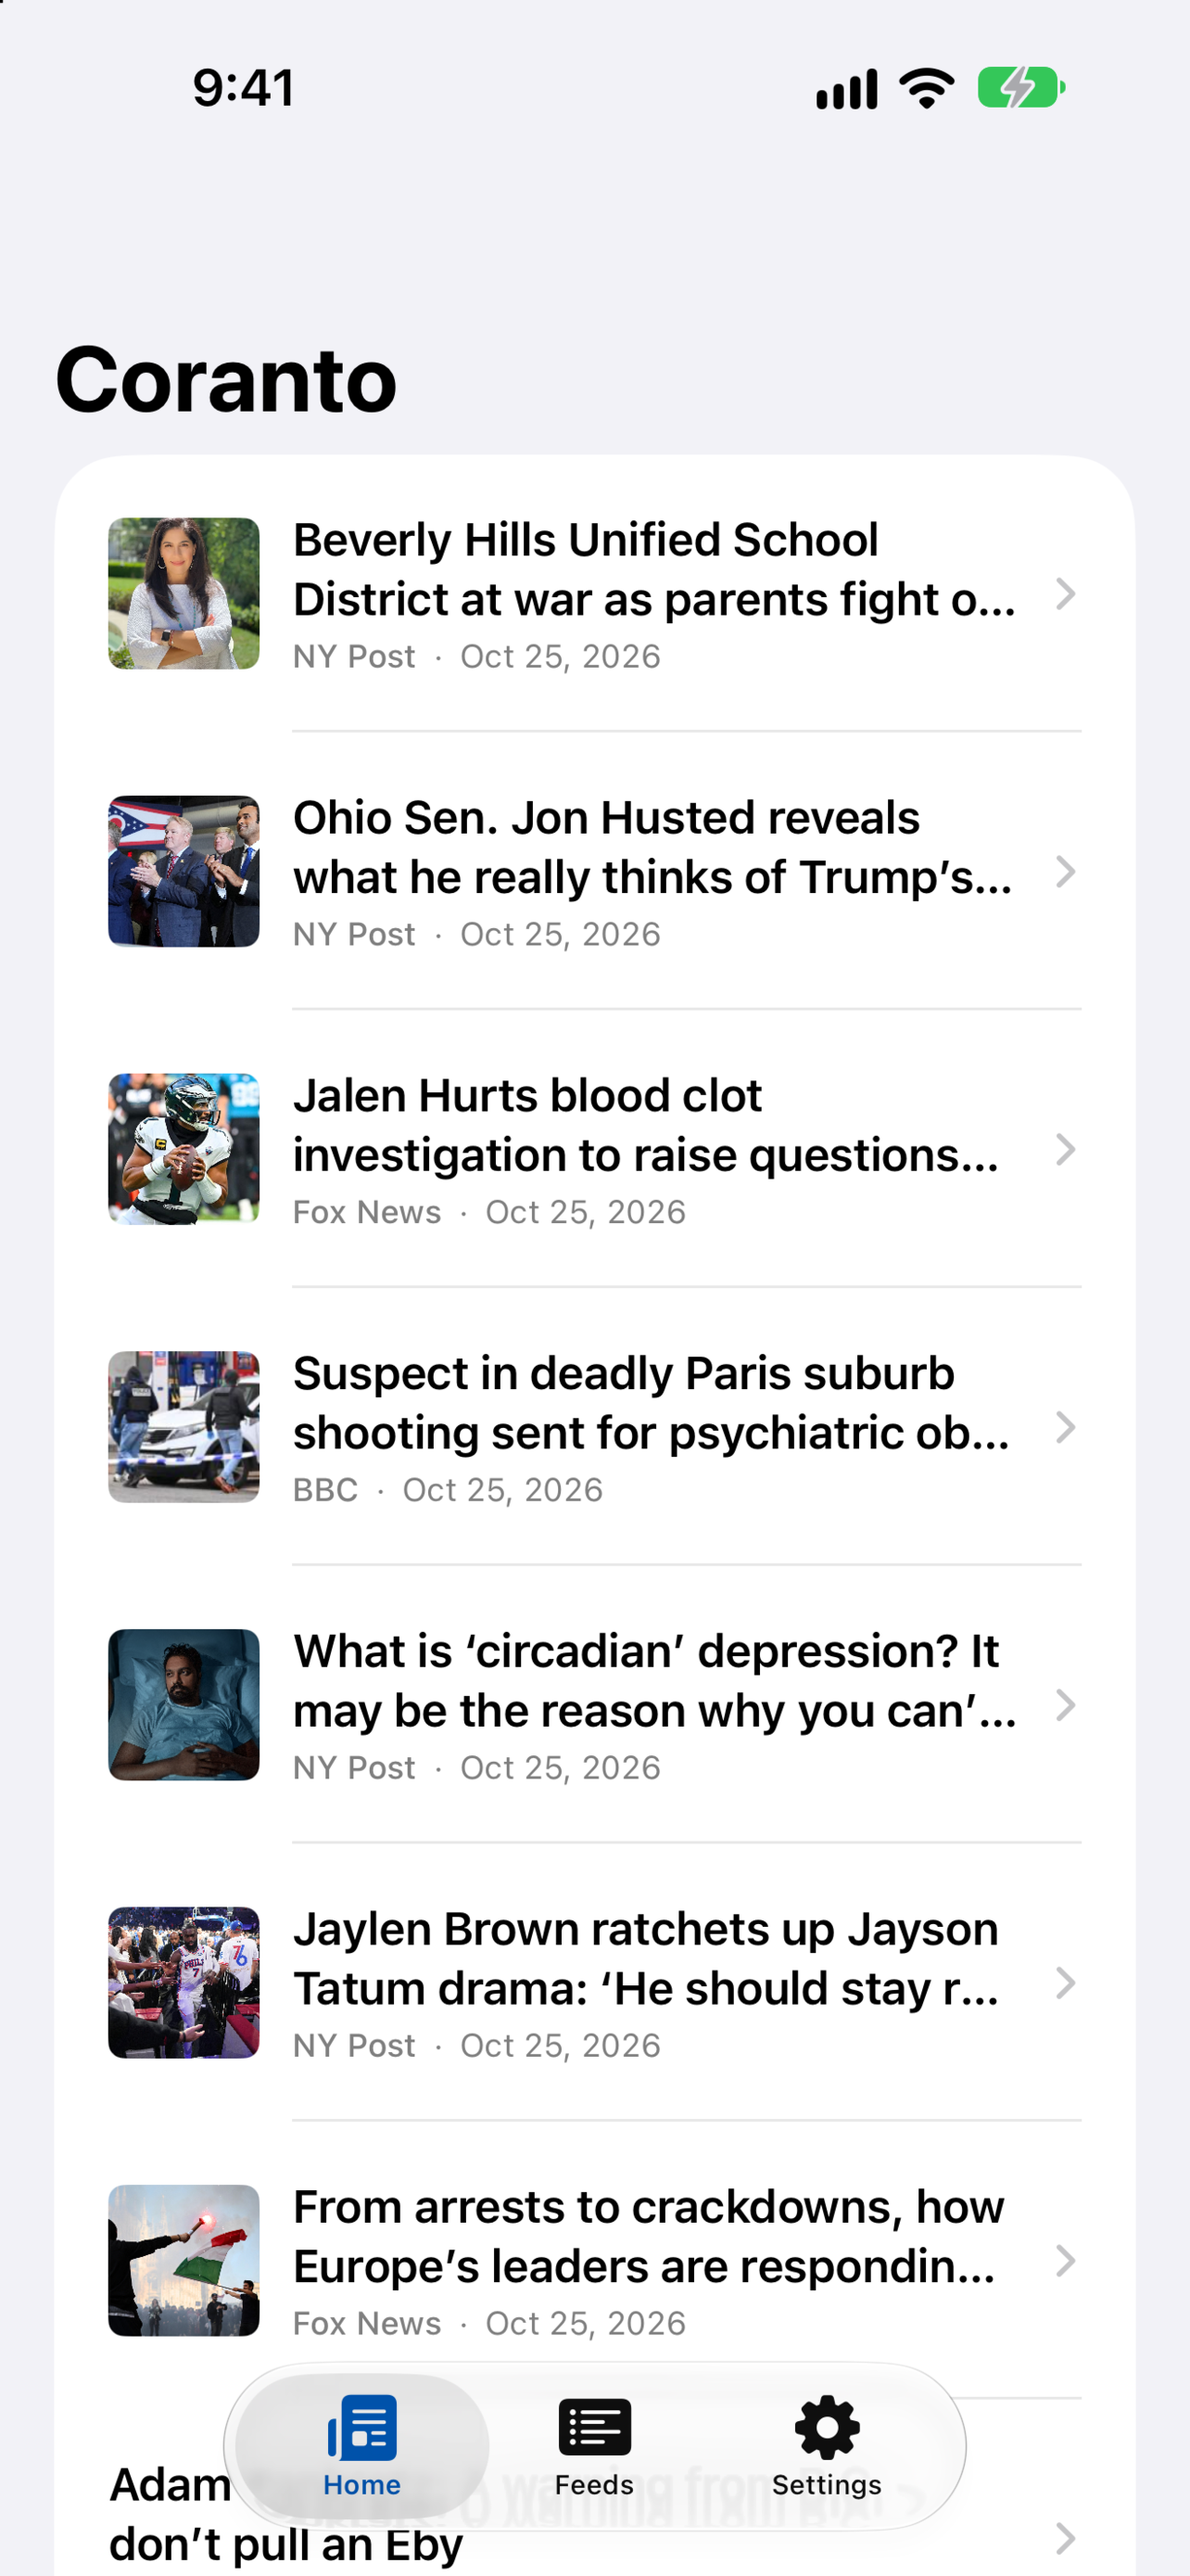
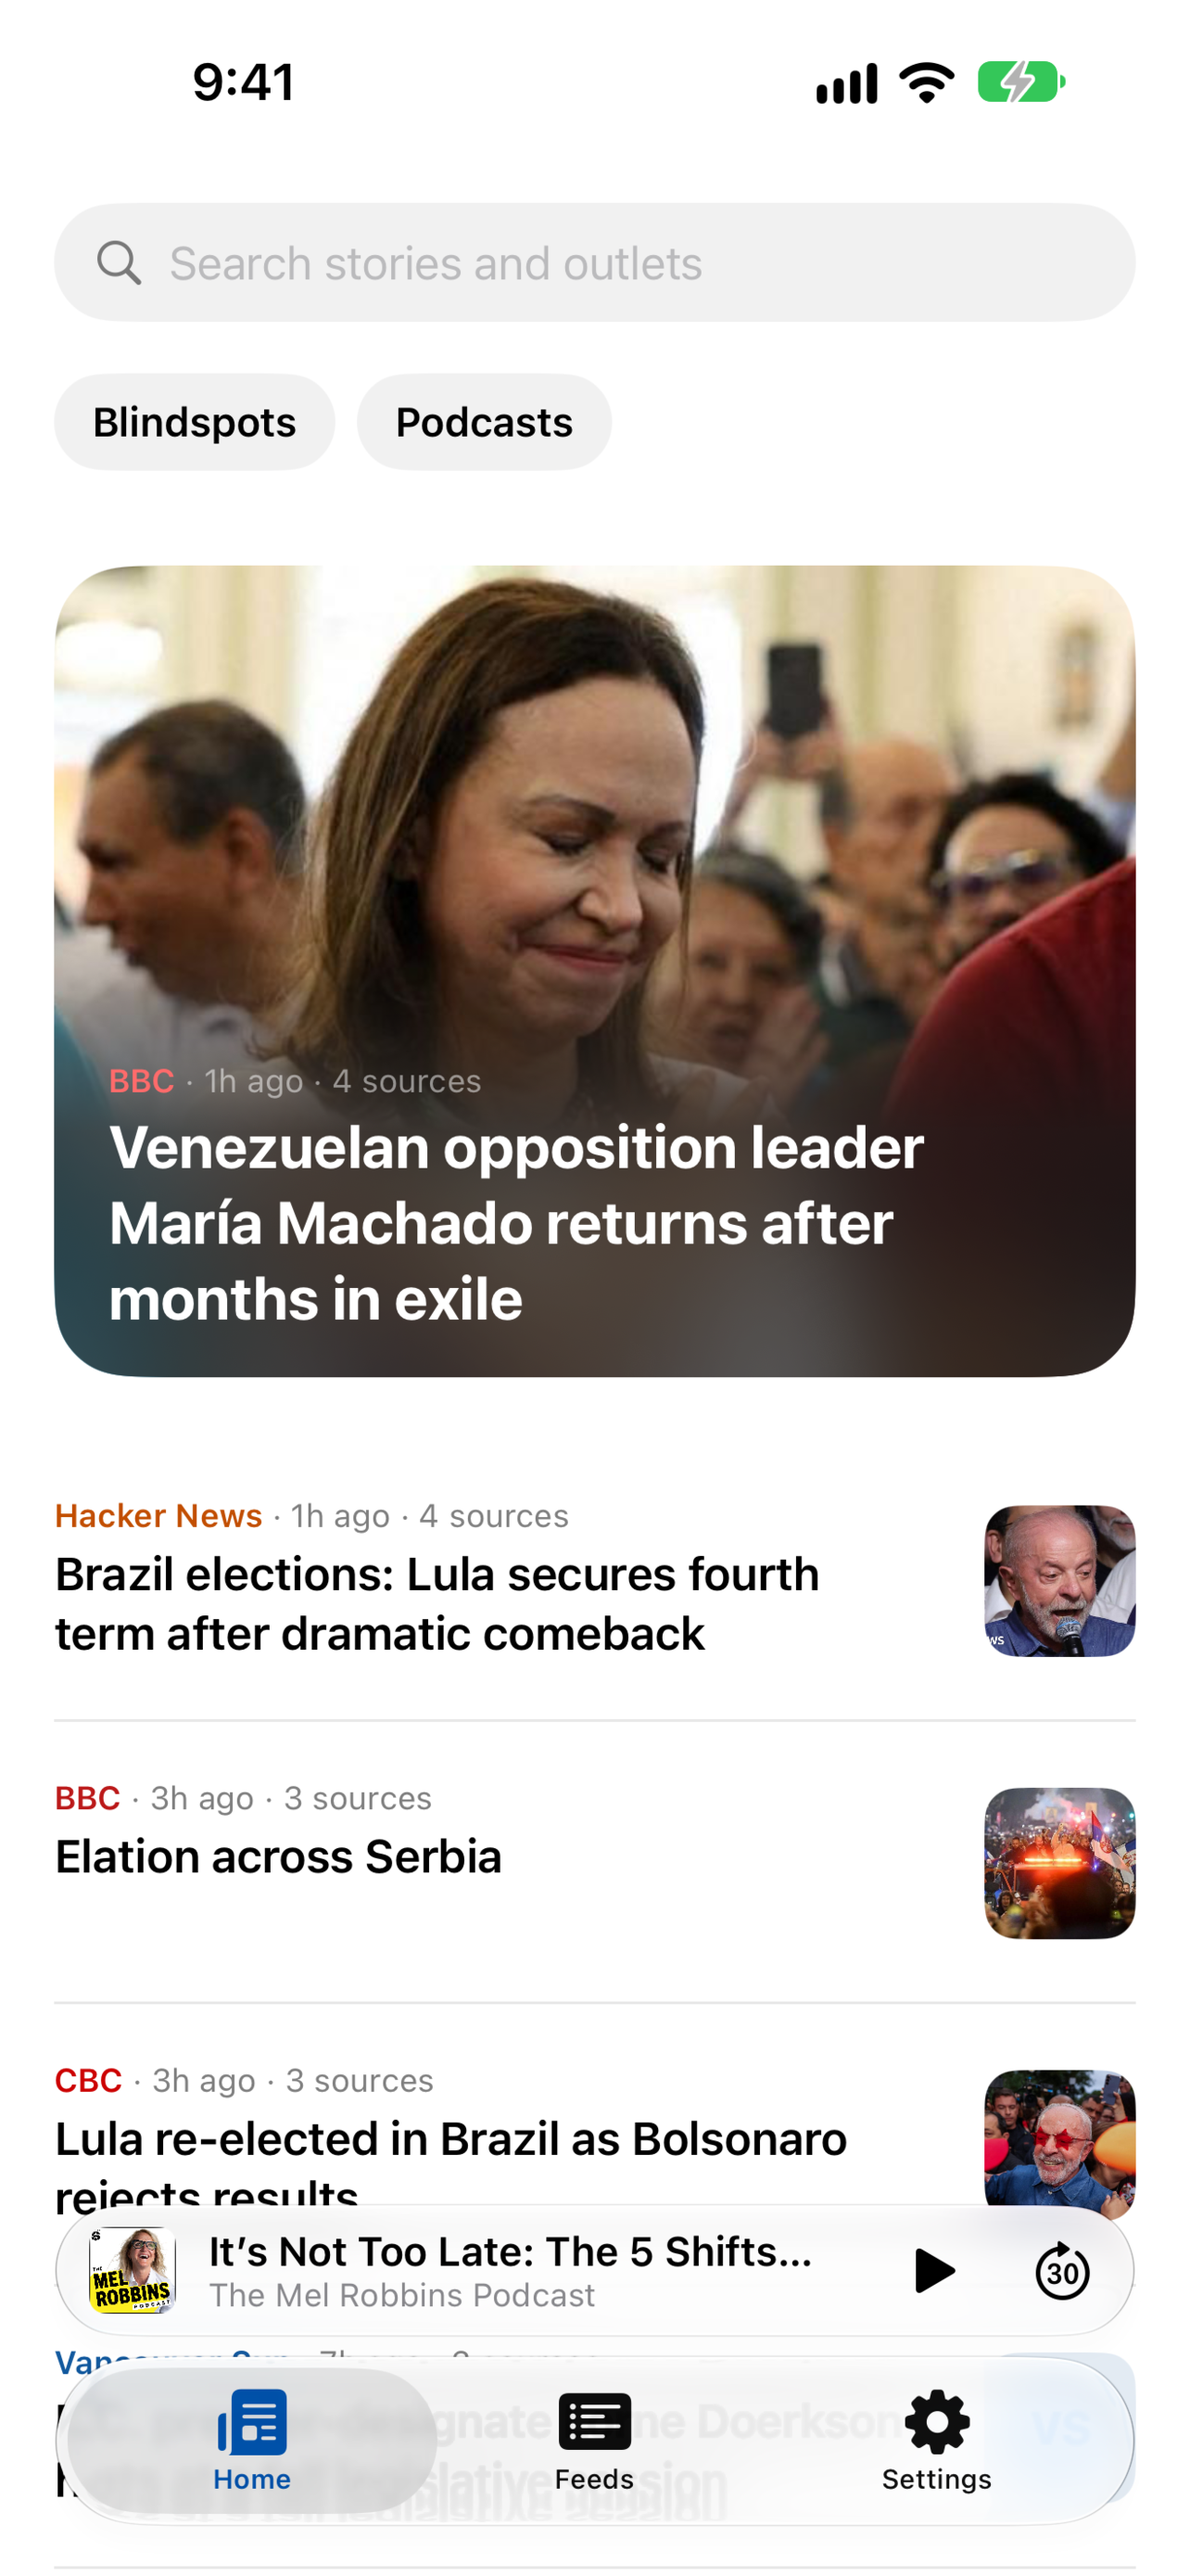
bugle 7.0.0: podcasts band done
Fourteen default shows, the Podcasts chip, a player with speed, skips, lock
screen and resume, Up Next, a mini player, Now Playing with AirPlay, downloads
and a sleep timer, on iPhone, iPad, Mac and the web. QA'd on all of them; the
mini player now hides on its own episode; new App Store screenshots that show
podcasts.

Claude-Session: https://claude.ai/code/session_01WK635nmVgnoRhWMPtJwkpw

diff --git a/ios/Sources/Shared/Views/EntryDetailView.swift b/ios/Sources/Shared/Views/EntryDetailView.swift
@@ -255,19 +255,19 @@ struct MiniPlayer: View {
 
 extension View {
     /// The mini player on the tab view: the tab bar accessory on iOS 26.1 and later, a floating capsule elsewhere.
-    @ViewBuilder func miniPlayer(_ player: Player, open: @escaping (JournalEntry) -> Void) -> some View {
+    @ViewBuilder func miniPlayer(_ player: Player, hidden: Bool, open: @escaping (JournalEntry) -> Void) -> some View {
         #if os(iOS)
         if #available(iOS 26.1, *) {
-            tabViewBottomAccessory(isEnabled: player.entry != nil) { MiniPlayer(player: player, open: open) }
-        } else { floatingMiniPlayer(player, open: open) }
+            tabViewBottomAccessory(isEnabled: player.entry != nil && !hidden) { MiniPlayer(player: player, open: open) }
+        } else { floatingMiniPlayer(player, hidden: hidden, open: open) }
         #else
-        floatingMiniPlayer(player, open: open)
+        floatingMiniPlayer(player, hidden: hidden, open: open)
         #endif
     }
 
-    private func floatingMiniPlayer(_ player: Player, open: @escaping (JournalEntry) -> Void) -> some View {
+    private func floatingMiniPlayer(_ player: Player, hidden: Bool, open: @escaping (JournalEntry) -> Void) -> some View {
         safeAreaInset(edge: .bottom) {
-            if player.entry != nil {
+            if player.entry != nil && !hidden {
                 MiniPlayer(player: player, open: open).frame(height: 56)
                     .background(.regularMaterial, in: Capsule()).padding(.horizontal, 16).padding(.bottom, 8)
             }

diff --git a/ios/Sources/Shared/Views/EntryListView.swift b/ios/Sources/Shared/Views/EntryListView.swift
@@ -62,7 +62,8 @@ struct EntryListView: View {
         .environment(\.horizontalSizeClass, .compact)
         #endif
         .tint(accent)
-        .miniPlayer(player) { _ in nowPlaying = true }
+        // hidden on the playing episode's own story, where its full player already is
+        .miniPlayer(player, hidden: path.last?.id == player.entry?.id) { _ in nowPlaying = true }
         .sheet(isPresented: $nowPlaying) { NowPlayingView(player: player) { tab = 0; path = [$0] } }
         // Keyboard (Mac, iPad): ⌘R refreshes, ⌘1 to ⌘3 pick a tab. Invisible buttons carry the shortcuts.
         .background {

diff --git a/web/sw.js b/web/sw.js
@@ -1,6 +1,6 @@
 // ponytail: network-first for pages, cache-first for the hashed assets they name.
 // Bump CACHE to evict everything a previous version stored.
-const CACHE = "bugle-v76";
+const CACHE = "bugle-v77";
 const FILES = ["/", "/index.html","/privacy.html","/read.html","/support.html", "/manifest.webmanifest"];
 
 // Pages redirects /read.html to /read; a cached redirect cannot answer a navigation (ERR_FAILED offline), so keep

diff --git a/web/read.html b/web/read.html
@@ -105,7 +105,7 @@
   </ul></div>
   <p class="label"></p>
   <div class="group"><ul class="rows">
-    <li><div class="row"><span class="txt">Version</span><small class="count">6.4.0</small></div></li>
+    <li><div class="row"><span class="txt">Version</span><small class="count">7.0.0</small></div></li>
   </ul></div>
   <p class="label"></p>
   <div class="group links"><ul class="rows">

diff --git a/docs/LOOP-HANDOFF.md b/docs/LOOP-HANDOFF.md
@@ -12,7 +12,7 @@ Restart prompt:
 
 ## Where things stand
 
-- Git is at 6.4.0: Now Playing (`NowPlayingView`, web `dialog.np`). QA hooks never play sound: `-cueEpisode`, `-nowPlaying` load paused (simulator audio comes out of Joshua's Mac). 6.3.0: sleep timer (`Player.sleep`, web `nextSleep`). 6.2.0: downloads (`Downloads.swift`, Application Support/episodes, removed once played; the web streams only), search covers episodes, web default feeds in `seeds.js`. 6.1.1: Home fills in as feeds arrive, 15 s feed timeout (a first launch on Joshua's phone sat on a spinner). 6.1.0: one app-wide player (`Player.shared`; web `player.js` keeps one audio element), a mini player (iOS 26.1 `tabViewBottomAccessory`, a floating capsule on Mac and older iOS, `#mini` on the web), Up Next (UserDefaults `queue`, localStorage `bugle.queue`), last episode restored paused (`nowPlaying`, `bugle.playing`). 6.0.1 (QA fixes: Feeds says "Podcast" under the default shows, cross-posted WSJ episodes list once, web Listen hides on episodes). 6.0.0: podcasts (Joshua said yes 2026-10-25 and sent his shows). Fourteen default shows in `FeedStore.podcasts` and `PODCASTS` (web, in `player.js`), added once to existing installs (`podcastsAdded`, `bugle.podcasts`). Episodes stay out of `stories`, live in `episodes`, show under the Podcasts chip; a show keeps its newest 30. `Player.swift` and `web/player.js` play them with speed, skips, lock screen and resume. The proxy now cuts oversized feeds at a whole item. 5.4.3: feeds that fail say so in Feeds. 5.4.2 (web Settings shows the version; bump the Version row in `web/read.html` with each release). 5.4.1: the web story toolbar title appears on scroll. 5.4.0: eleven languages (ar, de, es, fr, it, ja, ko, nl, pt-BR, zh-Hans, zh-Hant), Arabic right to left on both. 5.3.0: the web reader speaks the six languages too (`web/i18n.js`, generated by `scripts/gen_i18n.py`; rerun it after editing the catalog). 5.2.1: lean labels and empty states translated. 5.2.0: six languages in a String Catalog (84 strings; `xcodebuild -exportLocalizations` does not extract this project's strings, so new UI strings go into the catalog by hand, and a commit touching it needs SKIP_TOKEN_CHECK=1). 5.1.0: Dynamic Type at the largest sizes. 5.0.1: VoiceOver pass on Home rows. 5.0.0 (QA'd: tests, builds, iPhone and iPad light and dark, web at 390 and desktop, the landing; the Mac capture was skipped because an unsigned capture build would prompt for the account keychain item). 4.4.0: the share extension (`Sources/Share`, bundle id `com.nulljosh.journal.share`, registered with Apple along with `.widget`), handing items over through a shared keychain group (`Inbox`). Band 4.x is done. 4.3.0: Spotlight and Handoff (`Spotlight.swift`). 4.2.0: three columns on iPad and Mac (`HomeSplit`; the outlet list sets the same search Home uses, and the story column has its own path). 4.1.0: keyboard shortcuts (web `keys.js`; apps use invisible buttons with `.keyboardShortcut`). 4.0.1: grouping matches each headline against the story's lead only and ignores the day's common words (`Coverage.common`). 4.0.0 (tag `bugle-v4.0.0`): Band 3.x, RSS power, is done: site-address discovery, tech and Mac feeds, OPML, reading time, unread counts and Mark All Read, full article text for summary-only feeds, the Blindspots chip, and the story timeline (a week of headlines in `Archive`, shown under Earlier).
+- Git is at 7.0.0 (tag `bugle-v7.0.0`): the podcasts band done and QA'd, new store screenshots in `ios/.asc/screenshots` (01 to 05 iPhone 1284x2778 for APP_IPHONE_65, 06 and 07 iPad 2064x2752; the Mac set is still the old one), the mini player hides on its own episode. 6.4.0: Now Playing (`NowPlayingView`, web `dialog.np`). QA hooks never play sound: `-cueEpisode`, `-nowPlaying` load paused (simulator audio comes out of Joshua's Mac). 6.3.0: sleep timer (`Player.sleep`, web `nextSleep`). 6.2.0: downloads (`Downloads.swift`, Application Support/episodes, removed once played; the web streams only), search covers episodes, web default feeds in `seeds.js`. 6.1.1: Home fills in as feeds arrive, 15 s feed timeout (a first launch on Joshua's phone sat on a spinner). 6.1.0: one app-wide player (`Player.shared`; web `player.js` keeps one audio element), a mini player (iOS 26.1 `tabViewBottomAccessory`, a floating capsule on Mac and older iOS, `#mini` on the web), Up Next (UserDefaults `queue`, localStorage `bugle.queue`), last episode restored paused (`nowPlaying`, `bugle.playing`). 6.0.1 (QA fixes: Feeds says "Podcast" under the default shows, cross-posted WSJ episodes list once, web Listen hides on episodes). 6.0.0: podcasts (Joshua said yes 2026-10-25 and sent his shows). Fourteen default shows in `FeedStore.podcasts` and `PODCASTS` (web, in `player.js`), added once to existing installs (`podcastsAdded`, `bugle.podcasts`). Episodes stay out of `stories`, live in `episodes`, show under the Podcasts chip; a show keeps its newest 30. `Player.swift` and `web/player.js` play them with speed, skips, lock screen and resume. The proxy now cuts oversized feeds at a whole item. 5.4.3: feeds that fail say so in Feeds. 5.4.2 (web Settings shows the version; bump the Version row in `web/read.html` with each release). 5.4.1: the web story toolbar title appears on scroll. 5.4.0: eleven languages (ar, de, es, fr, it, ja, ko, nl, pt-BR, zh-Hans, zh-Hant), Arabic right to left on both. 5.3.0: the web reader speaks the six languages too (`web/i18n.js`, generated by `scripts/gen_i18n.py`; rerun it after editing the catalog). 5.2.1: lean labels and empty states translated. 5.2.0: six languages in a String Catalog (84 strings; `xcodebuild -exportLocalizations` does not extract this project's strings, so new UI strings go into the catalog by hand, and a commit touching it needs SKIP_TOKEN_CHECK=1). 5.1.0: Dynamic Type at the largest sizes. 5.0.1: VoiceOver pass on Home rows. 5.0.0 (QA'd: tests, builds, iPhone and iPad light and dark, web at 390 and desktop, the landing; the Mac capture was skipped because an unsigned capture build would prompt for the account keychain item). 4.4.0: the share extension (`Sources/Share`, bundle id `com.nulljosh.journal.share`, registered with Apple along with `.widget`), handing items over through a shared keychain group (`Inbox`). Band 4.x is done. 4.3.0: Spotlight and Handoff (`Spotlight.swift`). 4.2.0: three columns on iPad and Mac (`HomeSplit`; the outlet list sets the same search Home uses, and the story column has its own path). 4.1.0: keyboard shortcuts (web `keys.js`; apps use invisible buttons with `.keyboardShortcut`). 4.0.1: grouping matches each headline against the story's lead only and ignores the day's common words (`Coverage.common`). 4.0.0 (tag `bugle-v4.0.0`): Band 3.x, RSS power, is done: site-address discovery, tech and Mac feeds, OPML, reading time, unread counts and Mark All Read, full article text for summary-only feeds, the Blindspots chip, and the story timeline (a week of headlines in `Archive`, shown under Earlier).
 - 3.0.0 closed every gap against Apple News and Ground News from the original matrix (widget 2.4.0, Siri 2.5.0, Listen 3.0.0 and everything before).
 - The widget reads the seed feeds, not the user's list; an App Group would let it read `feeds.json`.
 - The web reader is live at 4.0.0. `web/reader.js` sits near the 5000 token hook; new web features go in their own file (`feedio.js`, `fulltext.js`, `timeline.js`).
@@ -20,9 +20,8 @@ Restart prompt:
 
 ## Next, in order
 
-1. iOS 2.0.0 is live (released 2026-10-25 evening) and iOS 6.1.0 (build 202610252056, podcasts and everything since 2.1) is waiting for review. Mac 2.0.0 is still in review; once it clears, archive and submit Mac 6.1.0 the same way with the same whatsNew. Never cancel a review.
-2. Road to 7.0.0 (Joshua 2026-10-25: loop to the next major, semver): 7.0.0 = the full QA list, fresh store screenshots showing podcasts, and the store submit. Apple Podcasts is the reference; Joshua's screenshots show Queue, 2x, 15 and 30, sleep timer.
-3. Then ungated band 50 to 99: more languages (Hindi, Russian, Turkish, Polish, Swedish, Indonesian, Vietnamese, Hebrew) and one Liquid Glass pass per tick.
+1. Store: iOS 6.1.0 is waiting for review and Mac 2.0.0 is in review. When iOS 6.1.0 clears, create iOS 7.0.0, upload the new screenshots (replace the APP_IPHONE_65 and APP_IPAD_PRO_3GEN_129 sets on its en-US localization), archive, upload and submit. When Mac 2.0.0 clears, archive and submit Mac 7.0.0. Never cancel a review.
+2. Road to 8.0.0 (semver: minor per feature, major per band). Ungated band 50 to 99 first: more languages (Hindi, Russian, Turkish, Polish, Swedish, Indonesian, Vietnamese, Hebrew), then one Liquid Glass pass per screen. Writing and subscribers (10 to 29) and Android (30 to 49) stay gated on Joshua.
 
 ## Rules that bite
 

diff --git a/roadmap.md b/roadmap.md
@@ -72,7 +72,7 @@ Rewritten 2026-10-25 at 1.19.5 (Joshua: "identify gaps, build roadmap, loop unti
 - **2.x Around the system** (rows 21, 22, 23, 25, 26: background refresh, notifications, widgets, Shortcuts, listen). **3.0** = 0 gaps against Apple News and Ground News: side-by-side QA.
 - **3.x RSS power** (rows 33 to 37, 42, 43: autodiscovery, OPML, full text, unread counts, Blindspot filter, reading time, timelines). **4.0** = 0 gaps against NetNewsWire and Reeder too.
 - **4.x iPad and Mac** (rows 38 to 41: shortcuts, three columns, share extension, Spotlight and Handoff). **5.0** QA.
-- **6 to 9 Podcasts** (Joshua 2026-08-24; yes on 2026-10-25, with his own shows as the defaults). Apple Podcasts is the reference.
+- **6 to 9 Podcasts** (Joshua 2026-08-24; yes on 2026-10-25, with his own shows as the defaults). Apple Podcasts is the reference. **7.0.0** closes it: 0 gaps against Apple Podcasts' core (play, queue, mini player, Now Playing, downloads, sleep timer).
   - [x] 6.0.0: enclosure audio, fourteen default shows, the Podcasts chip, a player with speed, skips, background audio, lock-screen controls and resume, on the apps and the web.
   - [x] 6.1.0: Up Next, and a mini player that keeps playing after you leave the story.
   - [x] 6.2.0: downloads, so an episode plays offline (apps; the web streams).

diff --git a/CHANGELOG.md b/CHANGELOG.md
@@ -2,6 +2,12 @@
 
 Git tags are `bugle-vX.Y.Z`. Earlier history (as Journal, Inkpress and Coranto) is in git log.
 
+## 7.0.0
+Podcasts, done as a whole: fourteen default shows, the Podcasts chip, a player with speed, skips, the lock screen and resume, Up Next, a mini player, Now Playing with AirPlay, downloads and a sleep timer, on the iPhone, iPad, Mac and the web.
+- QA pass on iPhone and iPad in light and dark, the web at phone and desktop width, and the landing. Builds for iPhone, iPad, Mac and Watch.
+- The mini player hides on the playing episode's own story, where its full player already is.
+- New App Store screenshots that show podcasts (`ios/.asc/screenshots`).
+
 ## 6.4.0
 - Now Playing: tap the mini player for the episode (tap it to open its story), Up Next to drag into order or swipe away, Clear, the full controls, and AirPlay. The web opens the same sheet, with Move up and remove.
 - QA hooks load an episode paused (`-cueEpisode`, `-nowPlaying`), so a screenshot run never plays sound.

diff --git a/CLAUDE.md b/CLAUDE.md
@@ -1,5 +1,5 @@
 # Bugle
-iOS 2.0.0 live, iOS 6.1.0 waiting for review, Mac 2.0.0 in review. Repo at 6.4.0: 0 gaps vs Apple News, Ground News and RSS readers; bands 1 to 5 done. Podcasts (band 6 to 9) started with 6.0.0: default shows in `FeedStore.podcasts` (web `PODCASTS` in `player.js`), `Player.swift`, the Podcasts chip. Web reader live at bugle.jaybulb.com/read.
+iOS 2.0.0 live, iOS 6.1.0 waiting for review, Mac 2.0.0 in review. Repo at 7.0.0: 0 gaps vs Apple News, Ground News and RSS readers; bands 1 to 5 done. Podcasts (band 6 to 9) started with 6.0.0: default shows in `FeedStore.podcasts` (web `PODCASTS` in `player.js`), `Player.swift`, the Podcasts chip. Web reader live at bugle.jaybulb.com/read.
 
 ## Open
 - Looping to 0 gaps vs Apple News and Ground News, then v100: gap matrix in `roadmap.md`, loop prompt `~/.claude/loops/bugle.md`. Tags are `bugle-vX.Y.Z` (the monorepo shares tags).
